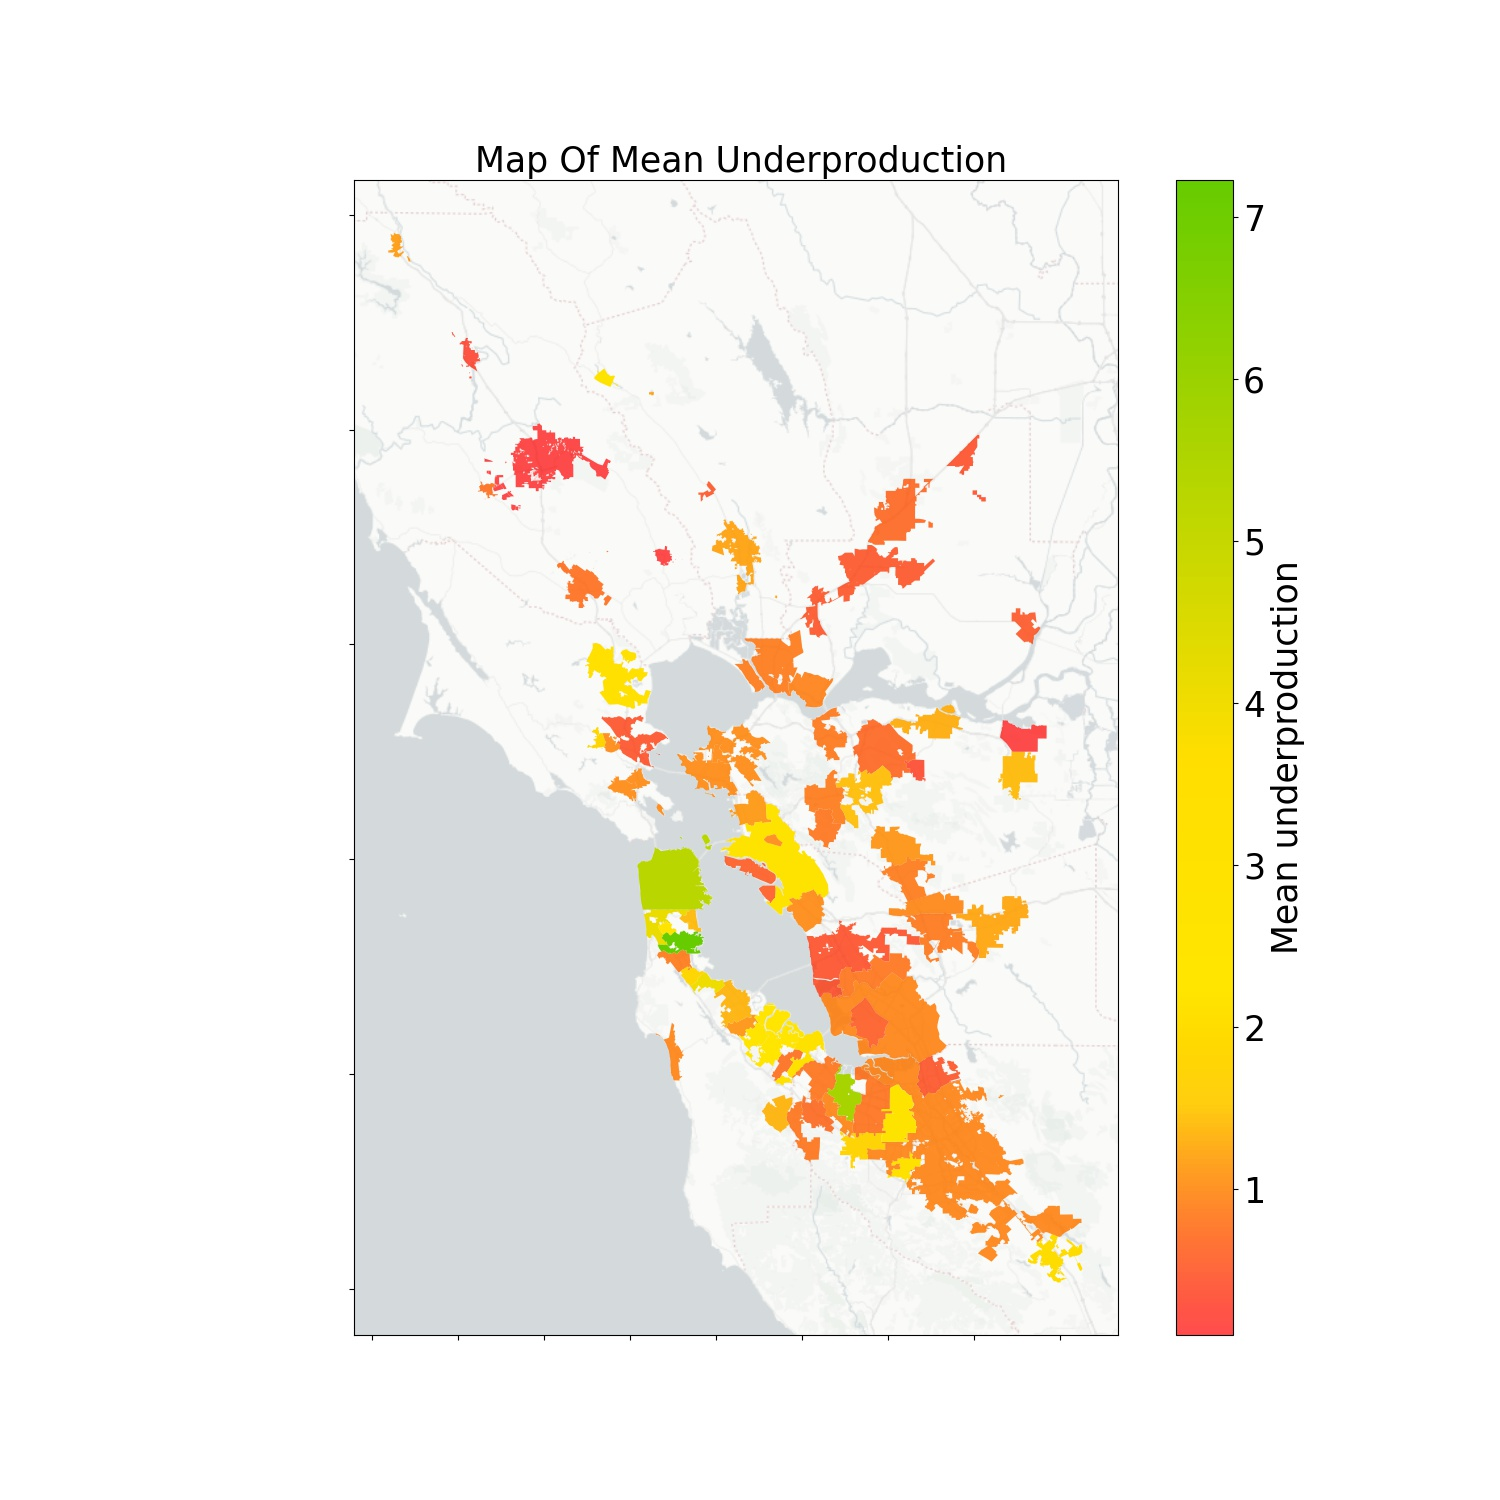
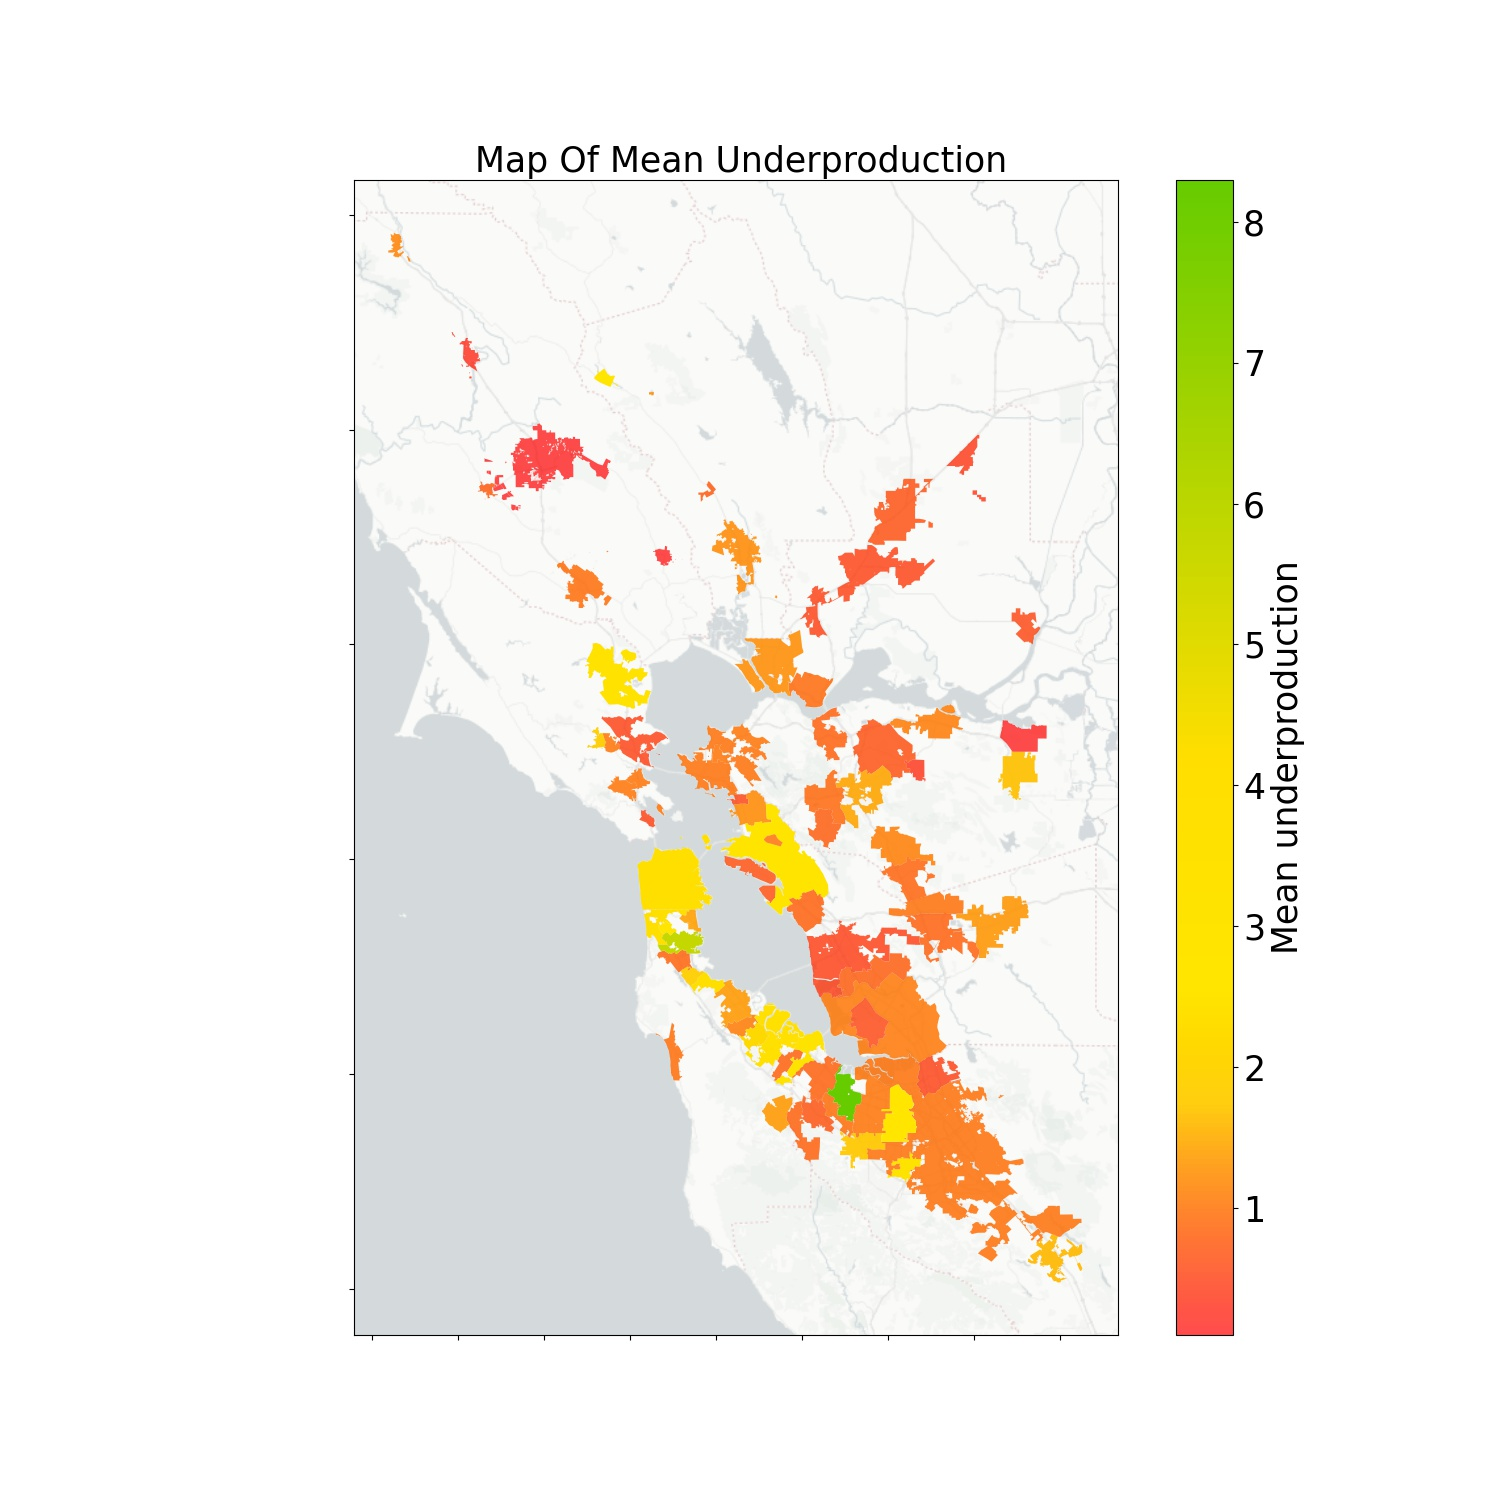
Switch plots to using the lax results, try to fix the xlabels/title on one histogram plot

diff --git a/housing_elements/final_results.py b/housing_elements/final_results.py
@@ -239,7 +239,8 @@ def make_plots(results_both_df: pd.DataFrame) -> None:
     sea_plot = sea.histplot(results_both_df['P(dev) for vacant sites']).set_title("Each city's P(dev)")
     sea_plot.get_figure().savefig('./figures/Pdev.png')
 
-    sea_plot = sea.histplot(results_both_df['P(inventory) for homes built']).set_title("P(inventory) for homes built")
+    sea_plot = sea.histplot(results_both_df['P(inventory) for homes built'])
+    sea_plot.set(xlabel='Share of new homes on inventory sites', ylabel='Number of cities')
     sea_plot.get_figure().savefig('./figures/pinventory.png')
 
     sea_plot = sea.histplot(results_both_df['Mean underproduction']).set_title("Each city's mean underproduction")
@@ -277,10 +278,15 @@ def main():
     parser = argparse.ArgumentParser()
     parser.add_argument('--use-cache', action='store_true')
     parser.add_argument('--additional-results-only', action='store_true')
+    parser.add_argument('--plots-only', action='store_true')
     args = parser.parse_args()
 
     if args.additional_results_only:
         print_summary_stats()
+        return
+
+    if args.plots_only:
+        make_plots(pd.read_csv('results/apn_or_geo_matching_lax_results.csv').query('City != "Overall"'))
         return
 
     if args.use_cache:
@@ -396,7 +402,7 @@ def main():
     combined_df.to_csv('results/combined_df.csv', index=False)
 
 
-    make_plots(results_both_df.query('City != "Overall"'))
+    make_plots(results_both_lax_df.query('City != "Overall"'))
 
     ground_truth_cities = ['Los Altos', 'San Francisco', 'San Jose']
     ground_truth_results_df = pd.DataFrame([get_ground_truth_results_for_city(city) for city in ground_truth_cities])
